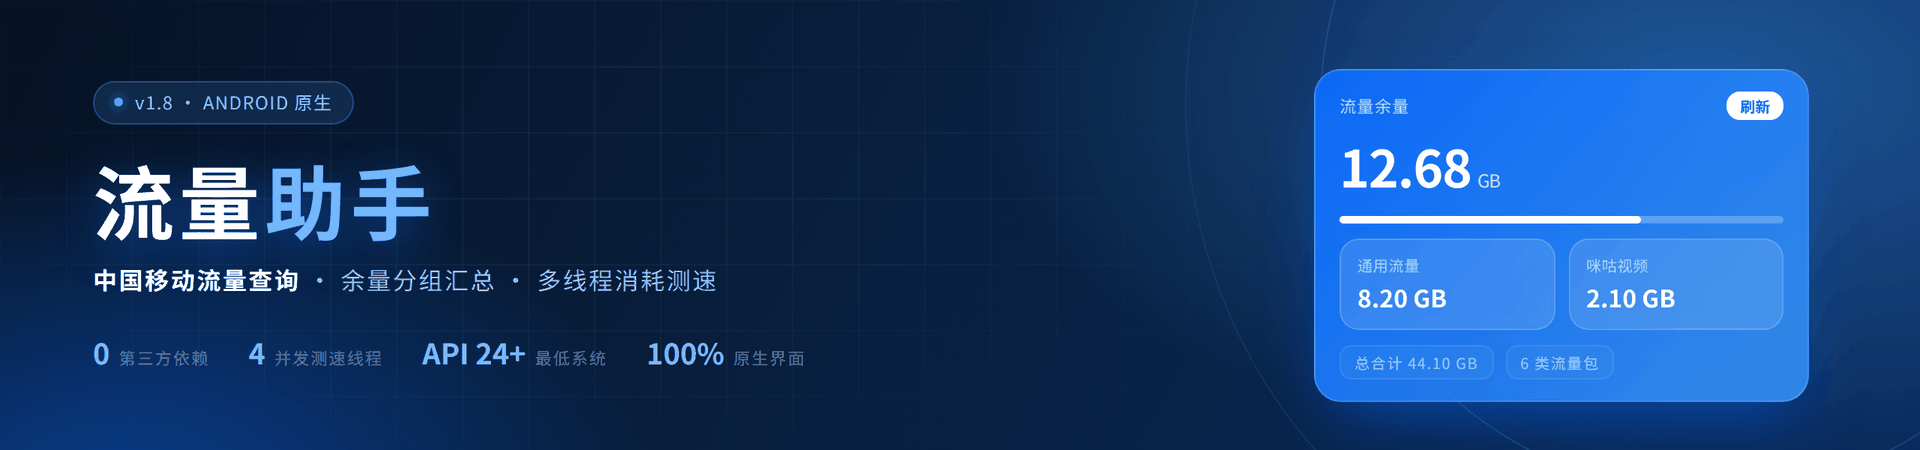
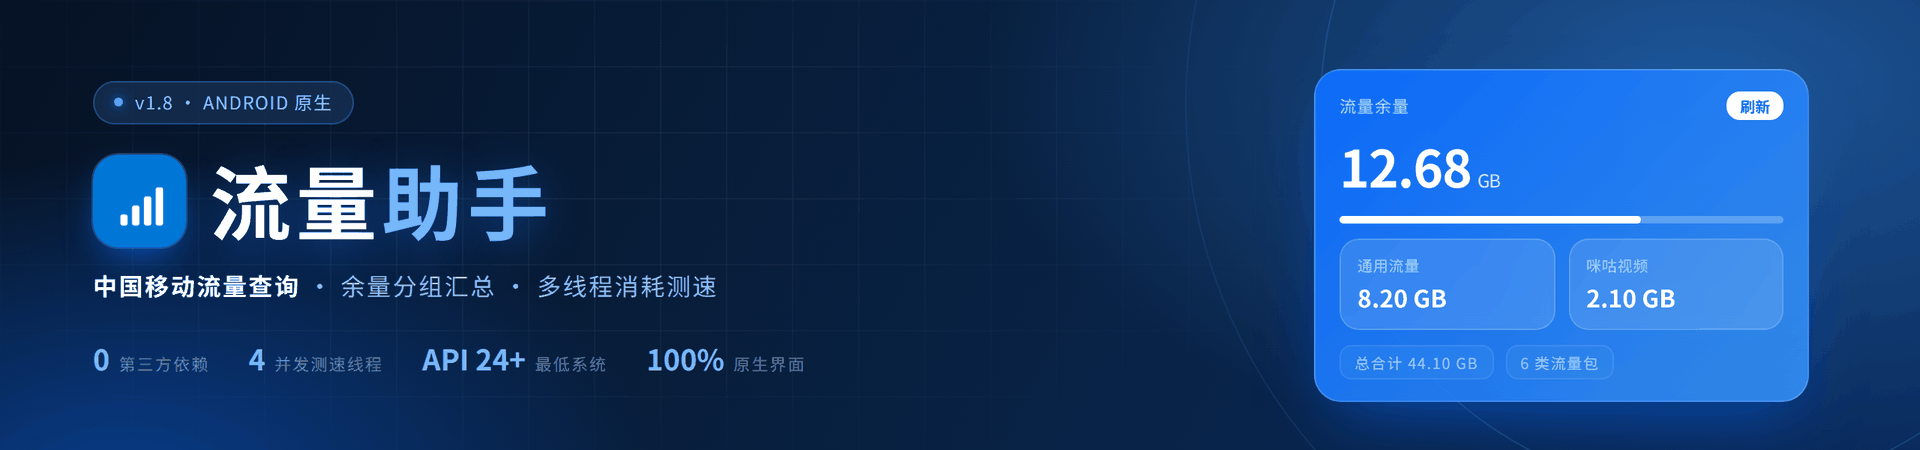
docs: 补充 APK 下载入口，横幅加入应用图标

Changed region(s): [[0.0312, 0.3422, 0.375, 0.6844], [0.0312, 0.7467, 0.4375, 0.84]]

diff --git a/README.md b/README.md
@@ -1,9 +1,10 @@
 <div align="center">
   <img src="assets/banner.png" alt="流量助手 · Flow Assistant" width="100%">
   <br><br>
+  <a href="https://github.com/fuoins/flow-assistant/releases/latest"><img src="https://img.shields.io/badge/下载-APK%20v1.8-0B6BFF?style=flat-square&logo=android&logoColor=white" alt="Download APK"></a>
   <a href="#快速开始"><img src="https://img.shields.io/badge/Android-7.0%2B-3DDC84?style=flat-square&logo=android&logoColor=white" alt="Android"></a>
   <a href="#工作原理"><img src="https://img.shields.io/badge/Java-100%25-E76F00?style=flat-square&logo=openjdk&logoColor=white" alt="Java"></a>
-  <a href="#版本记录"><img src="https://img.shields.io/badge/version-1.8-0B6BFF?style=flat-square" alt="Version"></a>
+  <a href="https://github.com/fuoins/flow-assistant/releases"><img src="https://img.shields.io/badge/version-1.8-0B6BFF?style=flat-square" alt="Version"></a>
   <a href="#工作原理"><img src="https://img.shields.io/badge/依赖-0-0E9F6E?style=flat-square" alt="Dependencies"></a>
   <a href="#声明"><img src="https://img.shields.io/badge/用途-学习交流-64748B?style=flat-square" alt="License"></a>
   <br><br>
@@ -93,13 +94,17 @@ flowchart LR
   class B,C,E,F soft
 ```
 
-**三个取舍**
+### 三个取舍
 
 - **用隐藏 WebView 而不是逆向接口**：登录、风控、取数全部跟随官方流程，页面改版时只需调整抽取选择器，不必重写鉴权。
 - **纯原生、零依赖**：单文件 `Activity` 手写布局，不引第三方 UI / 网络 / 图片库，APK 体积与启动开销都可控。
 - **没有后端**：手机号、Cookie、配置全部留在本机，测速源与领取入口通过一份公开 JSON 下发。
 
 ## 快速开始
+
+### 直接安装
+
+前往 [Releases](https://github.com/fuoins/flow-assistant/releases/latest) 下载 `flow-assistant-v1.8.apk`，在手机上允许「安装未知来源应用」后安装。首次启动需要登录中国移动账号（短信验证码）。
 
 ### 环境要求
 
@@ -112,7 +117,7 @@ flowchart LR
 
 > 运行前提：一张可接收短信的中国移动手机号，以及 Android 7.0 及以上的设备。
 
-### 构建
+### 从源码构建
 
 仓库里的 `build.sh` 是作者本机的一键脚本，顶部 `WS` 写死了工作区路径，直接运行前需要改成你自己的目录。也可以直接在仓库根目录执行下面这组命令：
 
